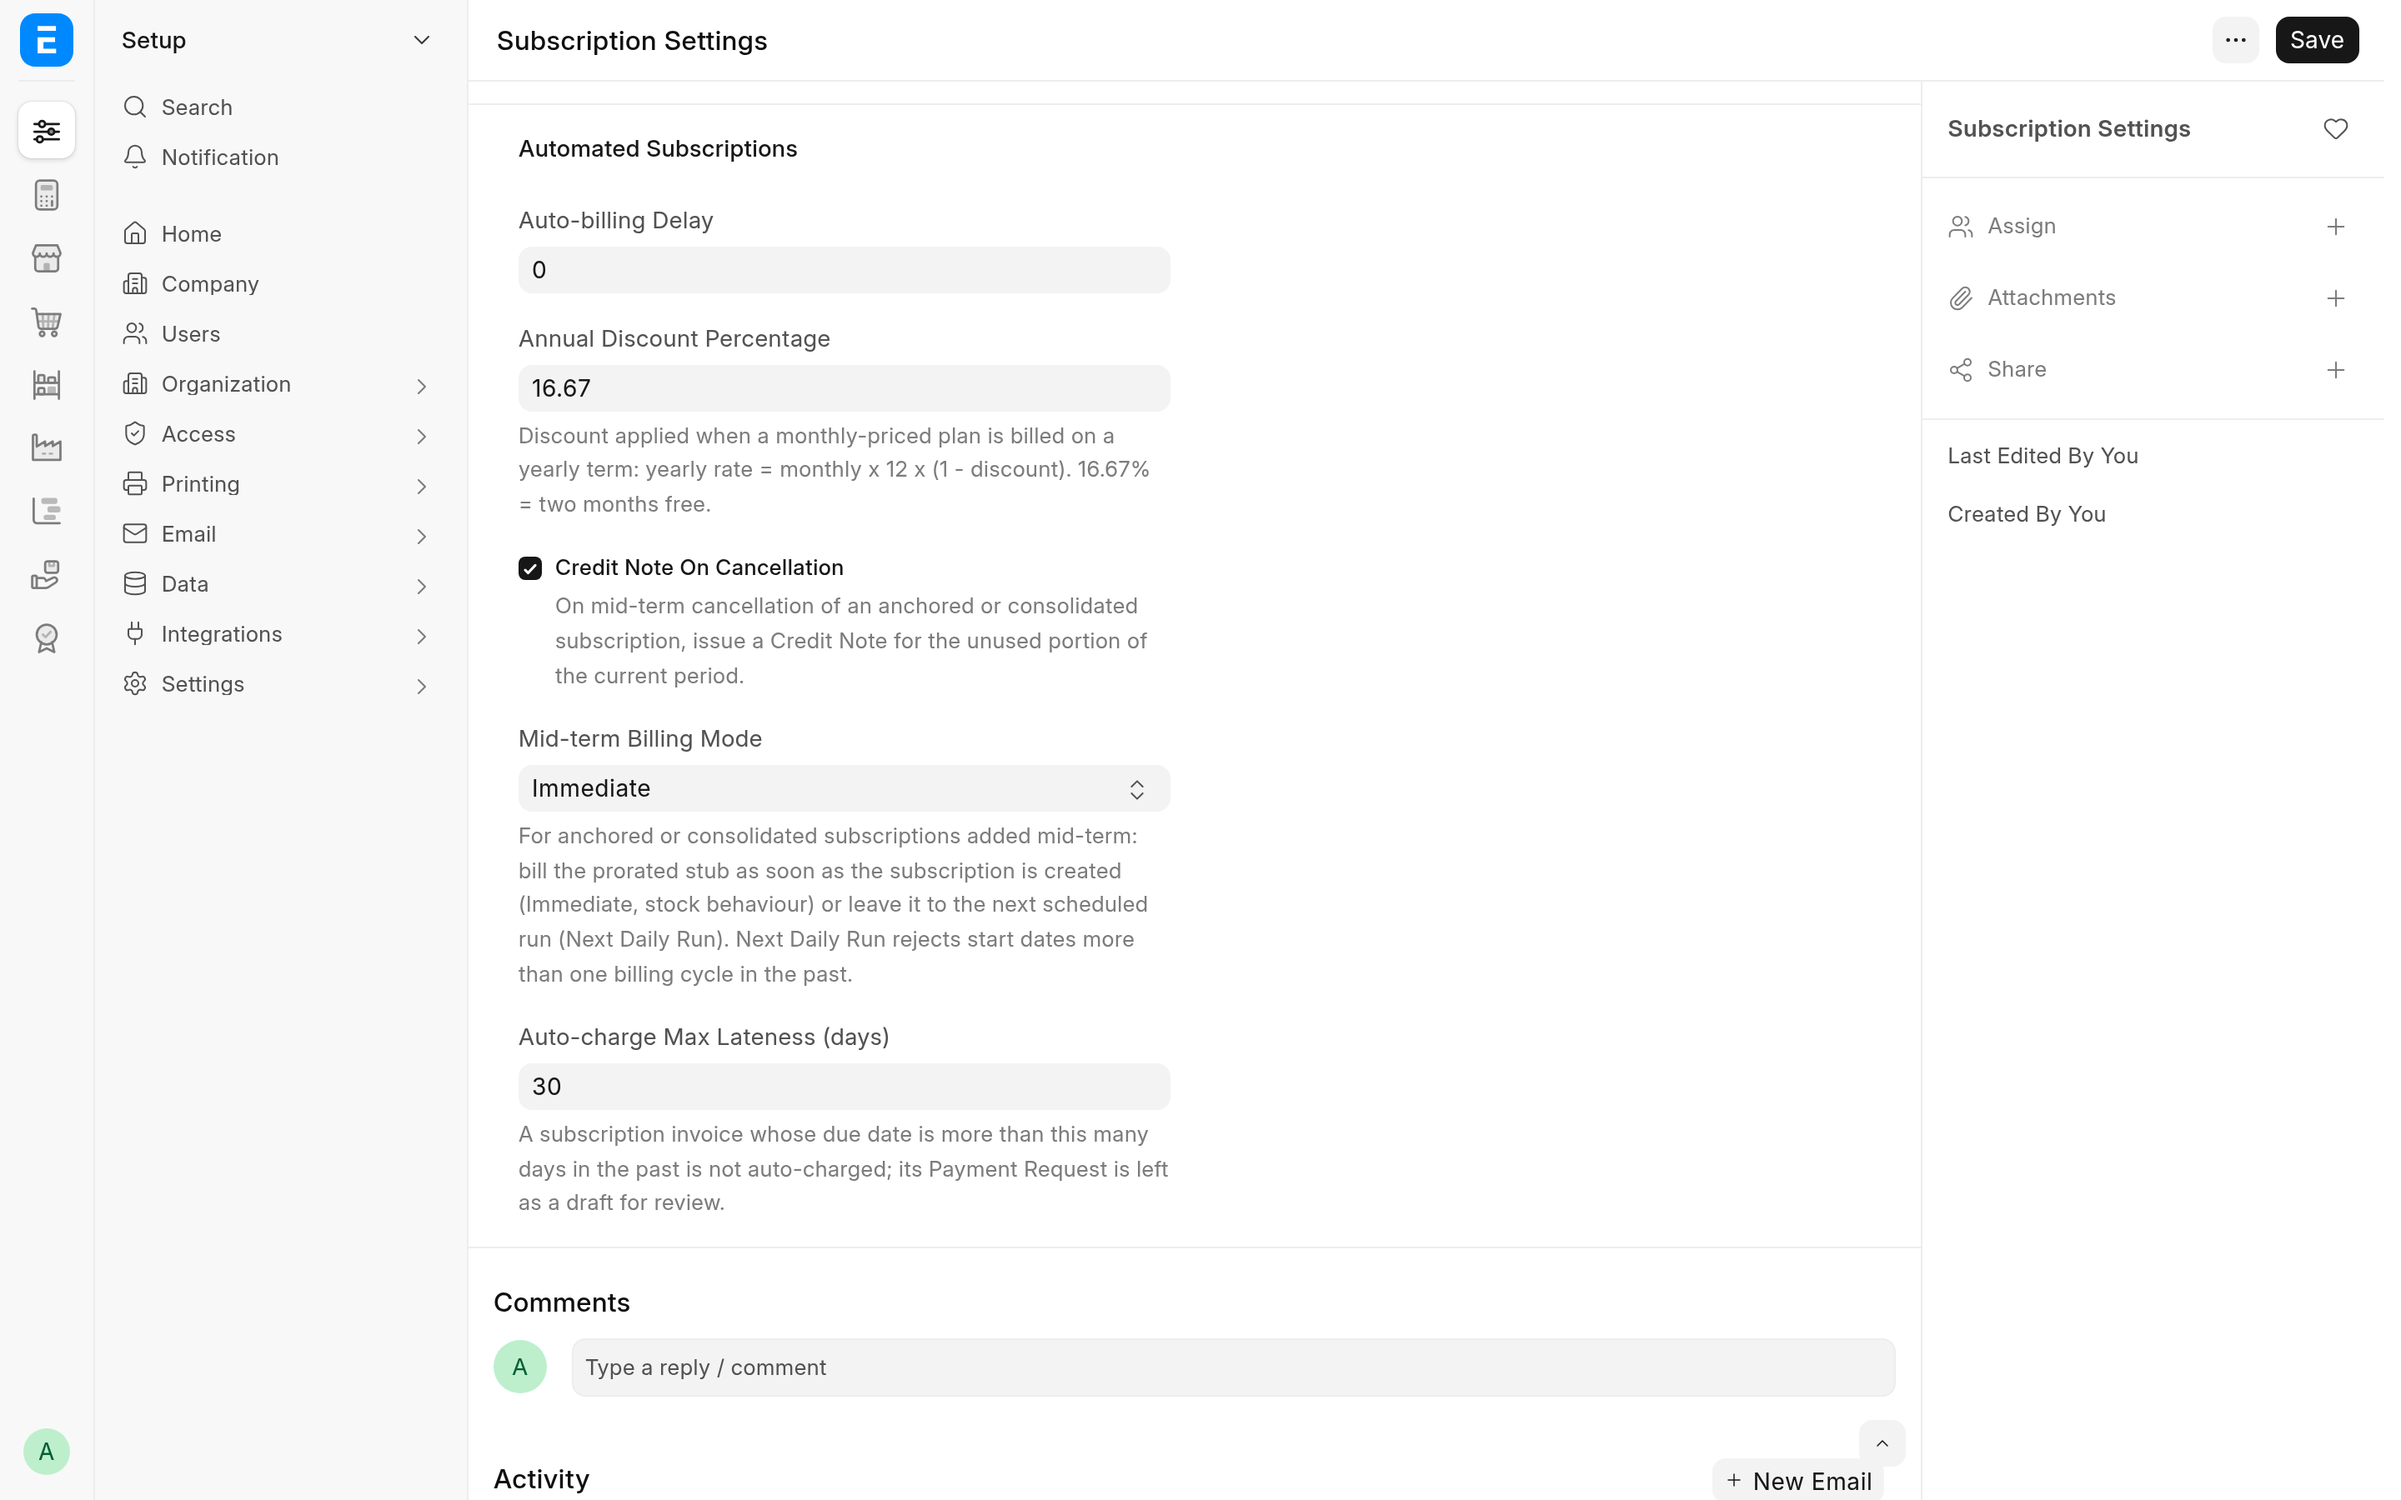
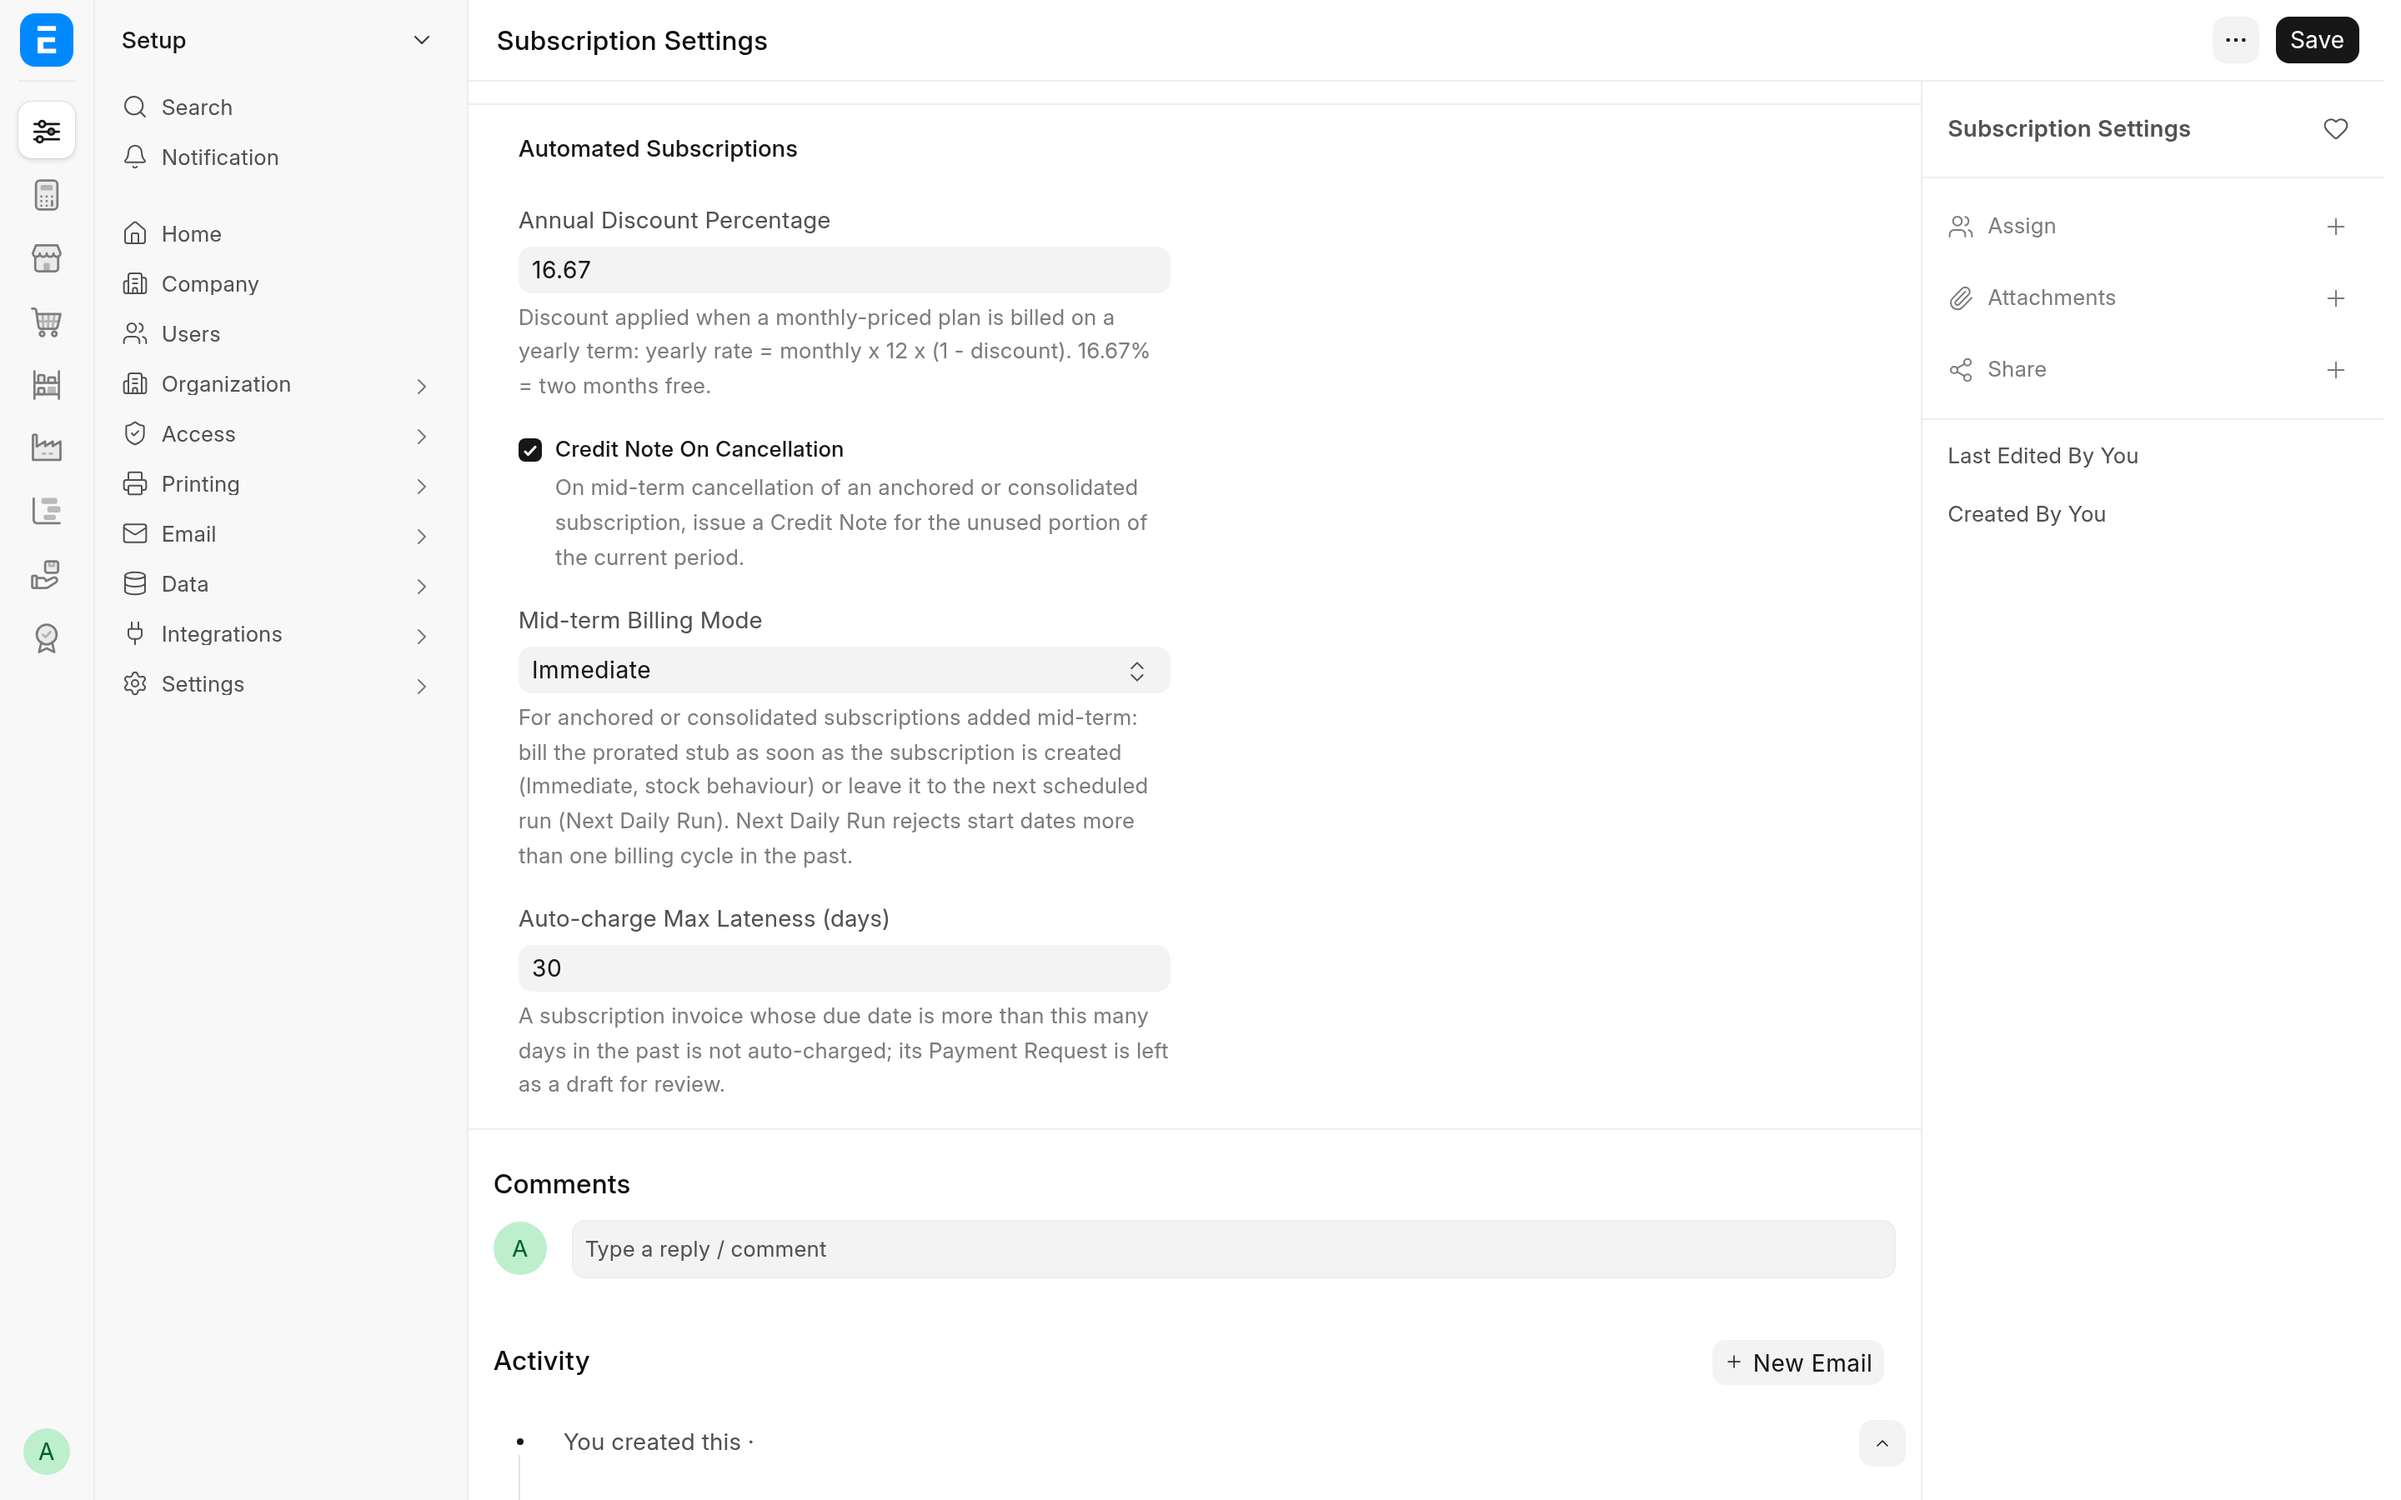
fix(settings): drop the unused Auto-billing Delay setting
Nothing read the Subscription Settings field auto_billing_delay; when a
payment falls due comes from Days Until Due on the Subscription. Remove
the field from the custom JSON and the typing stub, add a post-model-sync
patch that deletes the Custom Field and its stored value on existing
sites, point the settings screenshot at the first remaining field and
regenerate it, and update the README Configuration and Limitations
sections.

Claude-Session: https://claude.ai/code/session_01SvdEeMiewirZ3ifFoUix5F

diff --git a/marketplace/screenshots.ts b/marketplace/screenshots.ts
@@ -71,7 +71,7 @@ export default {
 			route: "/app/subscription-settings",
 			alt: "The Automated Subscriptions section of Subscription Settings with its defaults",
 			waitForFn: formReady("Subscription Settings", "Subscription Settings"),
-			actions: showSection("sb_automated_subscriptions", "auto_billing_delay"),
+			actions: showSection("sb_automated_subscriptions", "annual_discount_percentage"),
 			mask: [".frappe-timestamp"],
 			readme: "feature",
 		},

diff --git a/automated_subscriptions/automated_subscriptions/tests/test_patches.py b/automated_subscriptions/automated_subscriptions/tests/test_patches.py
@@ -1,0 +1,42 @@
+# Copyright (c) 2026, Avunu LLC and contributors
+# For license information, please see license.txt
+
+import frappe
+from frappe.custom.doctype.custom_field.custom_field import create_custom_field
+from frappe.tests import IntegrationTestCase
+
+from automated_subscriptions.patches.v1_2.drop_auto_billing_delay import CUSTOM_FIELD, execute
+
+
+class TestDropAutoBillingDelay(IntegrationTestCase):
+	def test_registered(self):
+		with open(frappe.get_app_path("automated_subscriptions", "patches.txt")) as f:
+			self.assertIn("automated_subscriptions.patches.v1_2.drop_auto_billing_delay", f.read().split())
+
+	def test_removes_the_field_and_its_value(self):
+		"""A site migrated from an older version still has the field and a stored value; the patch drops both."""
+		create_custom_field(
+			"Subscription Settings",
+			{
+				"fieldname": "auto_billing_delay",
+				"fieldtype": "Int",
+				"label": "Auto-billing Delay",
+				"insert_after": "sb_automated_subscriptions",
+			},
+		)
+		frappe.db.set_single_value("Subscription Settings", "auto_billing_delay", 3)
+		self.assertTrue(frappe.db.exists("Custom Field", CUSTOM_FIELD))
+
+		execute()
+
+		self.assertFalse(frappe.db.exists("Custom Field", CUSTOM_FIELD))
+		self.assertIsNone(frappe.get_meta("Subscription Settings").get_field("auto_billing_delay"))
+		self.assertFalse(
+			frappe.db.exists("Singles", {"doctype": "Subscription Settings", "field": "auto_billing_delay"})
+		)
+
+	def test_no_op_when_already_gone(self):
+		"""A fresh install never had the field; the patch must not fail there or on a rerun."""
+		execute()
+		execute()
+		self.assertFalse(frappe.db.exists("Custom Field", CUSTOM_FIELD))

diff --git a/automated_subscriptions/patches/v1_2/drop_auto_billing_delay.py b/automated_subscriptions/patches/v1_2/drop_auto_billing_delay.py
@@ -1,0 +1,15 @@
+# Copyright (c) 2026, Avunu LLC and contributors
+# For license information, please see license.txt
+
+import frappe
+
+CUSTOM_FIELD = "Subscription Settings-auto_billing_delay"
+
+
+def execute():
+	"""Drop the Auto-billing Delay setting. Nothing read it; when a payment falls due comes from Days Until Due
+	on the Subscription. The custom JSON no longer ships the field, and a sync never deletes one, so remove it
+	here along with its stored value."""
+	frappe.delete_doc("Custom Field", CUSTOM_FIELD, ignore_missing=True, force=True)
+	frappe.db.delete("Singles", {"doctype": "Subscription Settings", "field": "auto_billing_delay"})
+	frappe.clear_cache(doctype="Subscription Settings")

diff --git a/automated_subscriptions/automated_subscriptions/custom/subscription_settings.py b/automated_subscriptions/automated_subscriptions/custom/subscription_settings.py
@@ -12,7 +12,6 @@ class SubscriptionSettings(BaseSubscriptionSettings):
 	billing/settings.py get_settings, which applies the field defaults."""
 
 	annual_discount_percentage: DF.Percent
-	auto_billing_delay: DF.Int
 	auto_charge_max_lateness_days: DF.Int
 	credit_note_on_cancellation: DF.Check
 	mid_term_billing_mode: DF.Literal["Immediate", "Next Daily Run"]

diff --git a/automated_subscriptions/patches/v1_2/__init__.py b/automated_subscriptions/patches/v1_2/__init__.py
@@ -1,0 +1,3 @@
+# Copyright (c) 2026, Avunu LLC and contributors
+# For license information, please see license.txt
+

diff --git a/README.md b/README.md
@@ -116,10 +116,13 @@ The app adds an **Automated Subscriptions** section to **Subscription Settings**
 | Annual Discount Percentage      | 16.67     | Used when a monthly plan is billed on a yearly term: yearly rate = monthly rate x 12 x (1 - discount).                                                                        |
 | Credit Note On Cancellation     | on        | On mid-term cancellation of an anchored or consolidated subscription, issue a Credit Note for the unused part of the period.                                                  |
 | Mid-term Billing Mode           | Immediate | For an anchored or consolidated subscription added mid-term: bill the prorated first invoice when the subscription is created (Immediate), or leave it to the next daily run. |
-| Auto-billing Delay              | 0         | Not read by the current code (see Limitations).                                                                                                                               |
 
 The defaults are written to the database on install and on every `bench migrate`, so the form and the engine see the
 same values.
+
+There is no separate delay setting for payments: payment timing comes from **Days Until Due** on the Subscription.
+The invoice is due that many days after its posting date (with 0, the customer's payment terms decide), and the
+Payment Request is dated on that due date.
 
 ### Per-customer billing engine
 
@@ -215,7 +218,8 @@ that has been credited already is refused rather than credited twice.
   payment events).
 - Two lines with the same item and description cannot share a consolidated invoice unless Selling Settings allows an
   item to be added more than once; give each subscription its own Service Identifier.
-- **Auto-billing Delay** in Subscription Settings is a leftover field; changing it has no effect.
+- There is no app-wide delay before a payment is collected; payment timing comes from **Days Until Due** on each
+  Subscription. Earlier versions had an **Auto-billing Delay** setting that nothing read; migrating removes it.
 
 <!-- frappe-nix:begin support -->
 

diff --git a/docs/README.md b/docs/README.md
@@ -65,10 +65,13 @@ The app adds an **Automated Subscriptions** section to **Subscription Settings**
 | Annual Discount Percentage      | 16.67     | Used when a monthly plan is billed on a yearly term: yearly rate = monthly rate x 12 x (1 - discount).                                                                        |
 | Credit Note On Cancellation     | on        | On mid-term cancellation of an anchored or consolidated subscription, issue a Credit Note for the unused part of the period.                                                  |
 | Mid-term Billing Mode           | Immediate | For an anchored or consolidated subscription added mid-term: bill the prorated first invoice when the subscription is created (Immediate), or leave it to the next daily run. |
-| Auto-billing Delay              | 0         | Not read by the current code (see Limitations).                                                                                                                               |
 
 The defaults are written to the database on install and on every `bench migrate`, so the form and the engine see the
 same values.
+
+There is no separate delay setting for payments: payment timing comes from **Days Until Due** on the Subscription.
+The invoice is due that many days after its posting date (with 0, the customer's payment terms decide), and the
+Payment Request is dated on that due date.
 
 ### Per-customer billing engine
 
@@ -164,7 +167,8 @@ that has been credited already is refused rather than credited twice.
   payment events).
 - Two lines with the same item and description cannot share a consolidated invoice unless Selling Settings allows an
   item to be added more than once; give each subscription its own Service Identifier.
-- **Auto-billing Delay** in Subscription Settings is a leftover field; changing it has no effect.
+- There is no app-wide delay before a payment is collected; payment timing comes from **Days Until Due** on each
+  Subscription. Earlier versions had an **Auto-billing Delay** setting that nothing read; migrating removes it.
 
 ## Development
 
